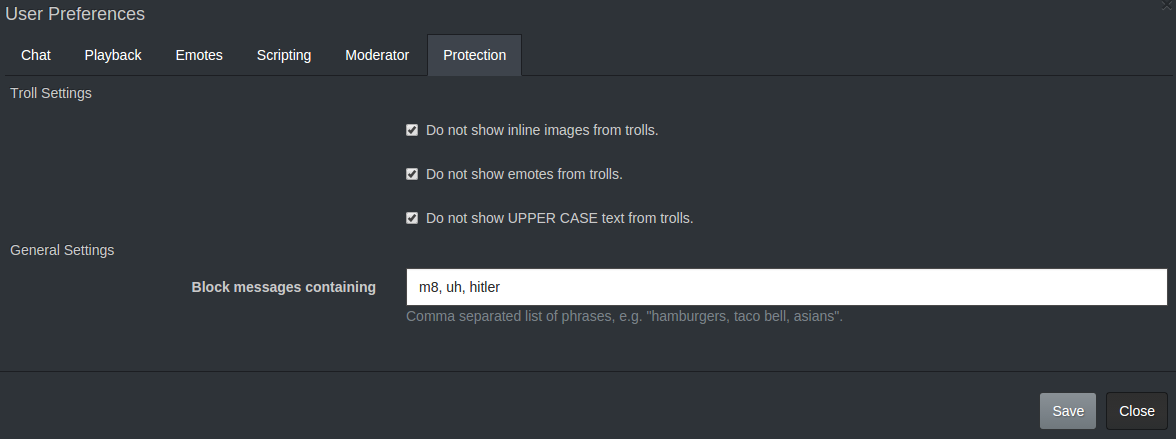
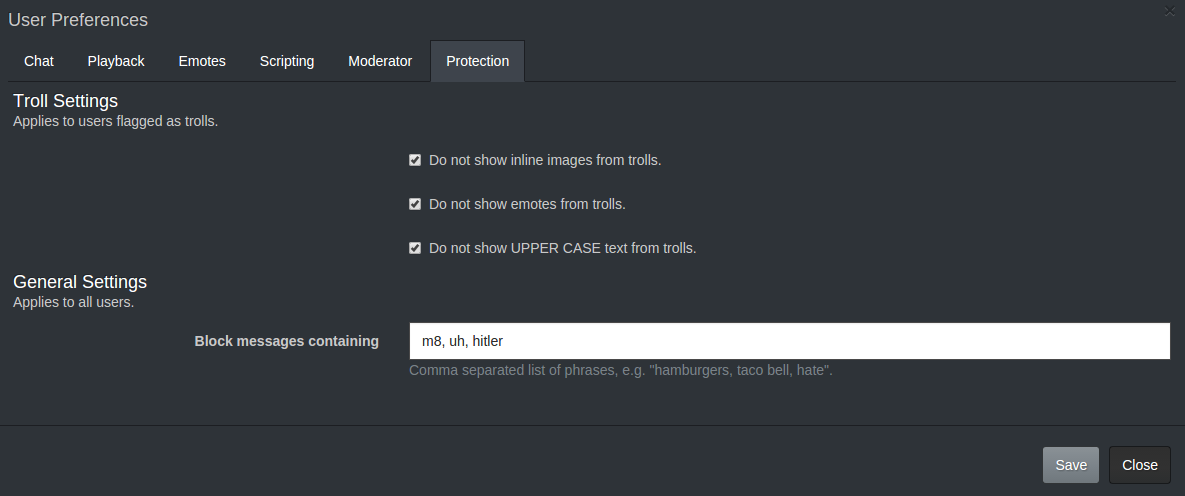
Protection script updated

diff --git a/protection.js b/protection.js
@@ -49,7 +49,8 @@
         form.addClass("form-horizontal");
         pane.append(form);
         
-        form.append($('<h5>Troll Settings</h5>'));
+        form.append($('<h4 style="margin-bottom:0;color:#fff;">Troll Settings</h4>'));
+        form.append($('<p>Applies to users flagged as trolls.</p>'));
         $(
             '<div class="form-group">' +
                 '<div class="col-sm-8 col-sm-offset-4">' +
@@ -89,7 +90,8 @@
             '</div>'
         ).appendTo(form);
     
-        form.append($('<h5>General Settings</h5>'));
+        form.append($('<h4 style="margin-bottom:0;color:#fff;">General Settings</h4>'));
+        form.append($('<p>Applies to all users.</p>'));
         $(
             '<div class="form-group">' +
                 '<label class="control-label col-sm-4" for="us-protection-settings-blocked-phrases">' +
